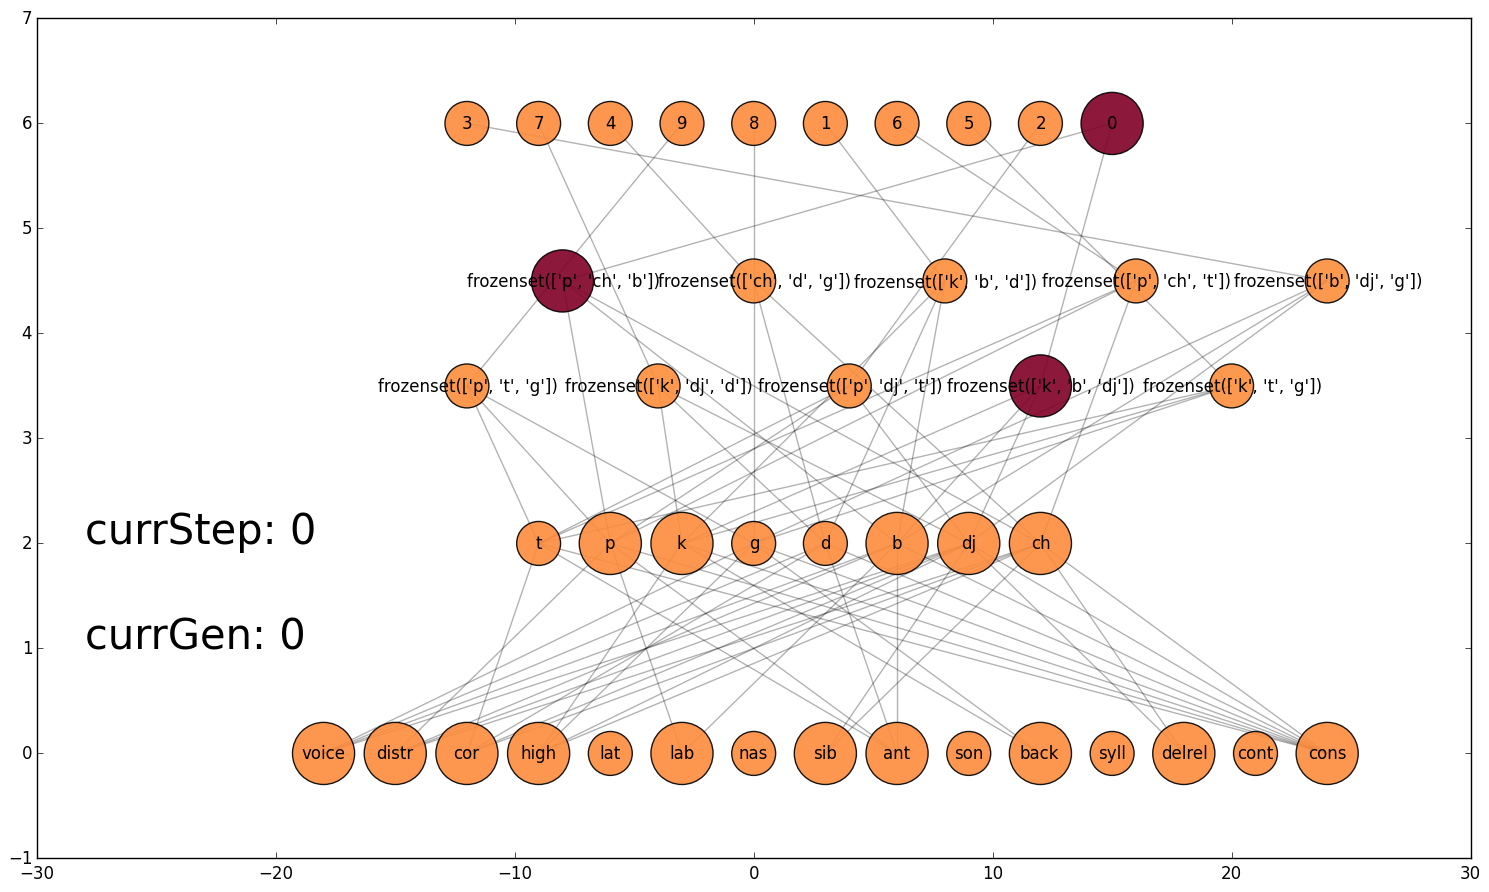
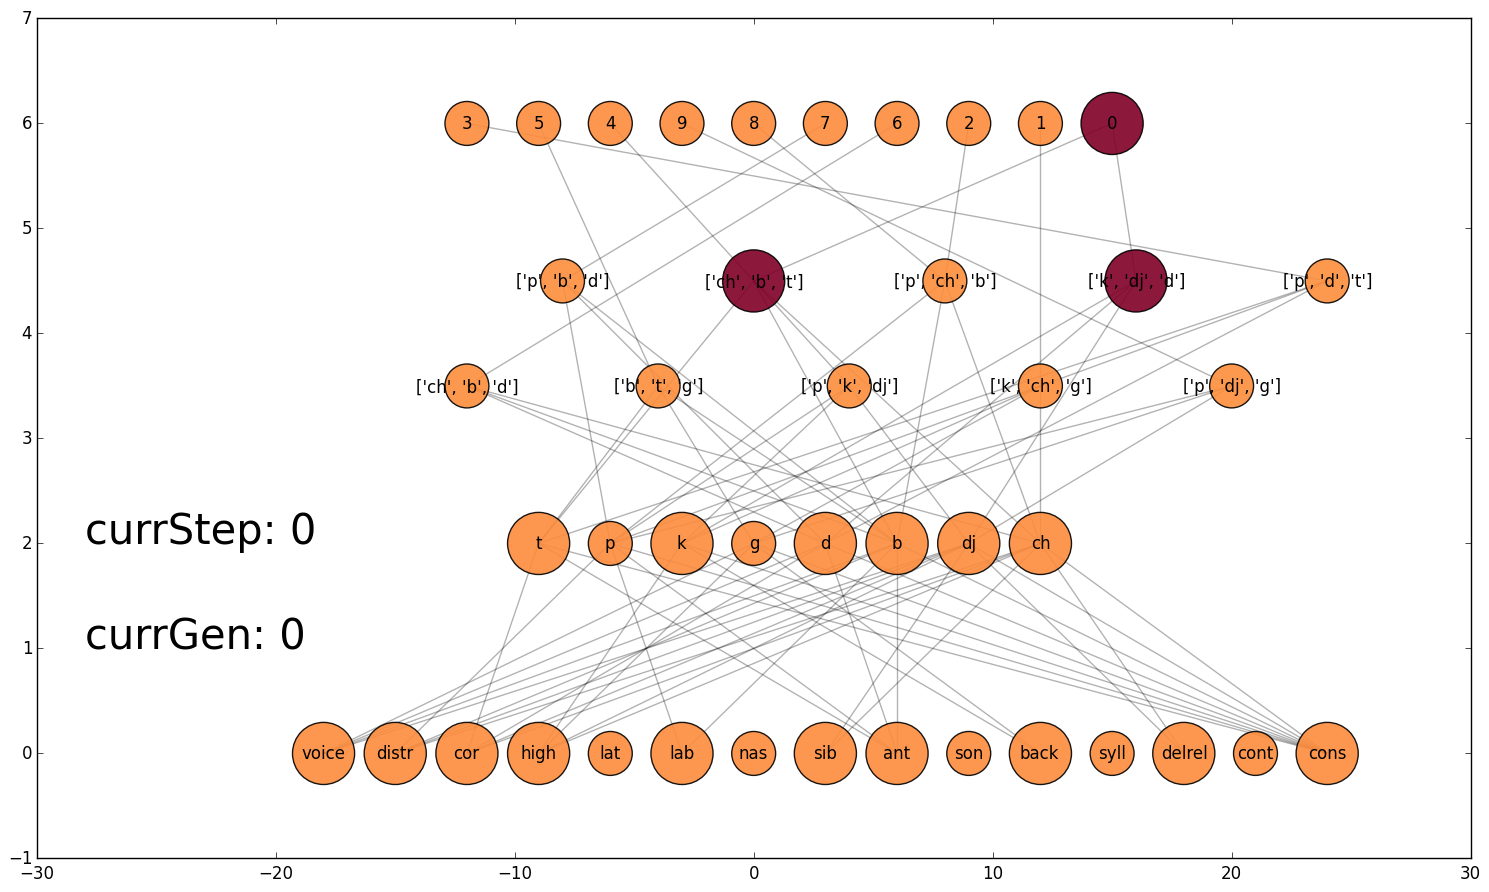
subclassed frozen set to modify __str__ for viz
Made up subclass prettyfrozenset that modifies the __str__ magic method
so that, when networks.draw_labels() prints the word node labels, it
just prints [‘a’,’b’,’c’], rather than frozenset([‘a’,’b’,’c’]). This
makes the visualization less cluttered.

diff --git a/SpeechProduction.py b/SpeechProduction.py
@@ -24,6 +24,11 @@ os.chdir('/Users/russellrichie/Richie extension of Graff (2012)/Richie-extension
 
 # Set some parameters
 
+class prettyfrozenset(frozenset):
+    def __str__(self):
+        initial = super(prettyfrozenset, self).__str__()
+        return initial[initial.index("(") + 1:-1]
+
 conceptCount = 10 # do we need more concepts and hence words so that the 
                   # word-form space is a bit more crowded and hence we might find
                   # anti-minimal pair effects?                  
@@ -67,13 +72,13 @@ def newActivation(weightj, prevAct, netInputs, decay):
 def initWords(phonemes,conceptCount,wordLengths):
     newWords = []
     for _ in range(conceptCount):
-        newWords.append(frozenset(random.sample(phonemes, wordLengths))) # must be frozen (hashable) so networkx can make nodes out of words
+        newWords.append(prettyfrozenset(random.sample(phonemes, wordLengths))) # must be frozen (hashable) so networkx can make nodes out of words
     #for _ in range(wordCount):
     #    newWords.append([random.choice(phonemes) for _ in range(wordLengths)])
     return newWords
 
 def coinOneSyn(phonemes,wordLengths):
-    return frozenset(random.sample(phonemes, wordLengths))
+    return prettyfrozenset(random.sample(phonemes, wordLengths))
 
 # initialize the phonemes and word list
 
@@ -129,7 +134,7 @@ conceptX  = range( int(-conceptCount/2)  + 1, int(conceptCount/2)  + 1 )
 
 pos = dict()
 for node in phGraph0:
-    if type(node)    == frozenset:
+    if type(node)    == prettyfrozenset:
             pos[node] = array([wordX.pop()    * 4, wordY.pop()])
     elif type(node)  == int:
             pos[node] = array([conceptX.pop() * 3, conceptY])
@@ -190,7 +195,7 @@ for currGen in range(nGens):
             wordY     = [3.5, 4.5] * len(wordList) # this will be longer than it needs to be
 
             for node in phGraph0:
-                if type(node)    == frozenset:
+                if type(node)    == prettyfrozenset:
                         pos[node] = array([wordX.pop() * 4, wordY.pop()])
             """
             nx.draw_networkx(phGraph0,
@@ -236,7 +241,7 @@ for currGen in range(nGens):
             edges = phGraph0.edges()
             pltEdges = []
             for edge in edges:
-                if type(edge[0]) != frozenset or type(edge[1]) != frozenset:
+                if type(edge[0]) != prettyfrozenset or type(edge[1]) != prettyfrozenset:
                     pltEdges.append(edge)
                        
             nx.draw_networkx_edges(phGraph0,
